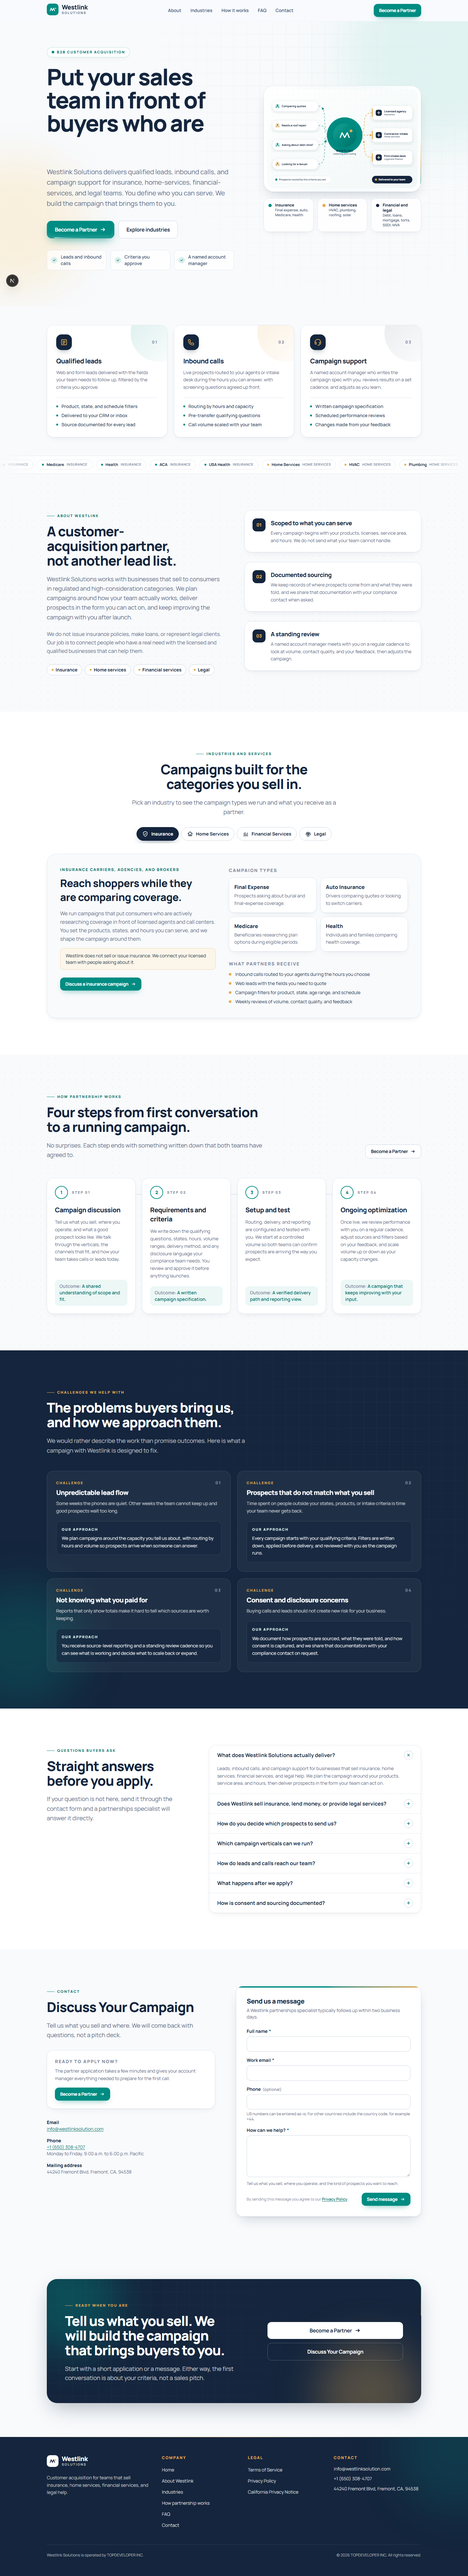
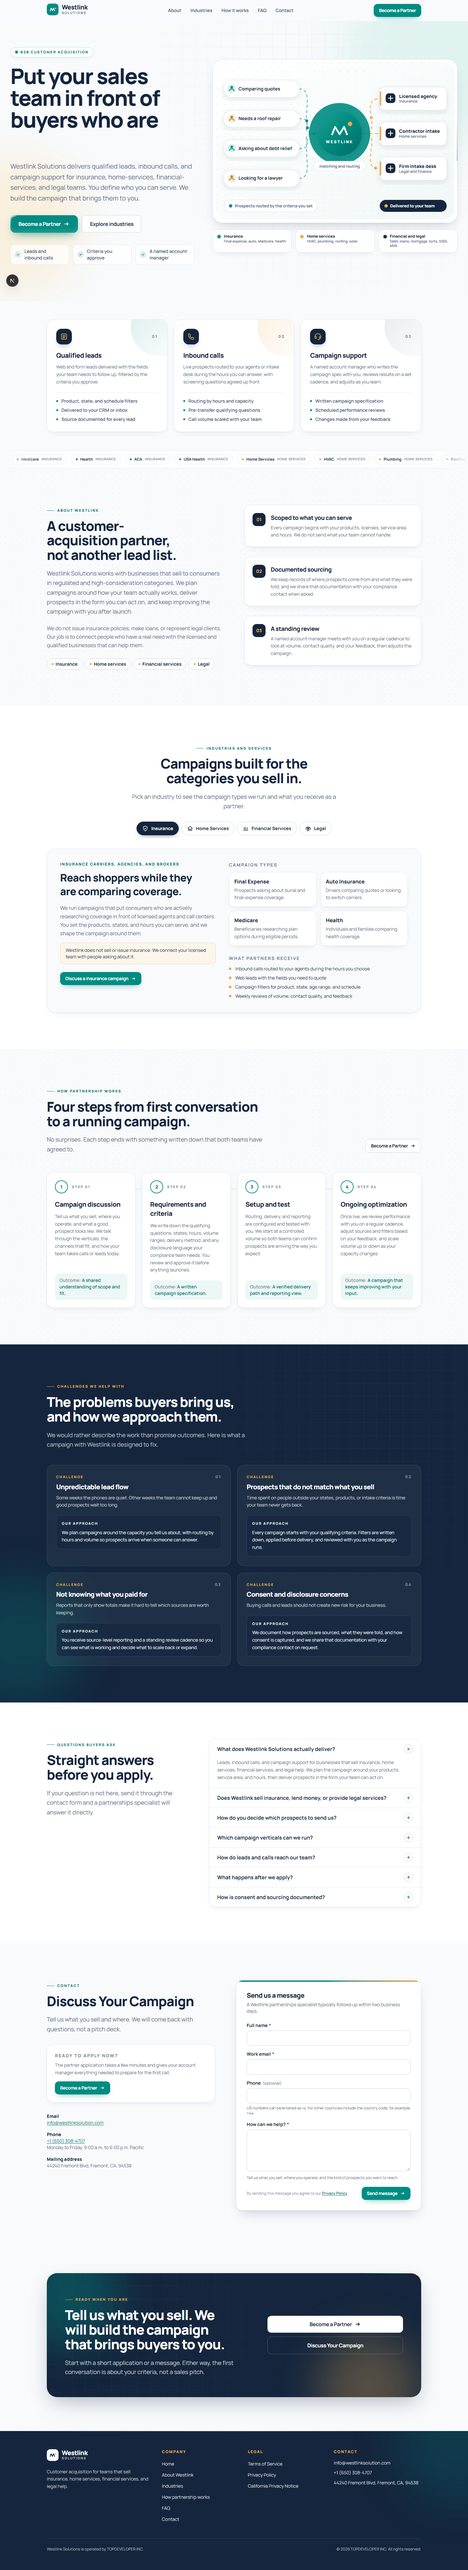
Hero: larger visual column, non-overlapping hub and connectors, wrapping headline phrase, responsiveness sweep across eight widths

diff --git a/src/components/home/HeroIllustration.tsx b/src/components/home/HeroIllustration.tsx
@@ -6,21 +6,22 @@
  * reduced motion.
  */
 const PROSPECTS = [
-  { y: 72, label: "Comparing quotes", tone: "teal" },
-  { y: 154, label: "Needs a roof repair", tone: "amber" },
-  { y: 236, label: "Asking about debt relief", tone: "teal" },
-  { y: 318, label: "Looking for a lawyer", tone: "amber" },
+  { y: 70, label: "Comparing quotes", tone: "teal" },
+  { y: 150, label: "Needs a roof repair", tone: "amber" },
+  { y: 230, label: "Asking about debt relief", tone: "teal" },
+  { y: 310, label: "Looking for a lawyer", tone: "amber" },
 ] as const;
 
 const PARTNERS = [
-  { y: 100, label: "Licensed agency", sub: "Insurance" },
-  { y: 195, label: "Contractor intake", sub: "Home services" },
-  { y: 290, label: "Firm intake desk", sub: "Legal and finance" },
+  { y: 96, label: "Licensed agency", sub: "Insurance" },
+  { y: 190, label: "Contractor intake", sub: "Home services" },
+  { y: 284, label: "Firm intake desk", sub: "Legal and finance" },
 ] as const;
 
-const HUB = { x: 330, y: 195 };
-const PILL = { x: 22, w: 196, h: 44 };
-const CARD = { x: 446, w: 172, h: 60 };
+const HUB = { x: 332, y: 190 };
+const HUB_R = 60;
+const PILL = { x: 20, w: 204, h: 46 };
+const CARD = { x: 440, w: 180, h: 62 };
 const FONT = "Manrope, ui-sans-serif, system-ui, -apple-system, 'Segoe UI', sans-serif";
 
 export function HeroIllustration({ animated = false }: { animated?: boolean }) {
@@ -56,7 +57,7 @@ export function HeroIllustration({ animated = false }: { animated?: boolean }) {
         {PROSPECTS.map((p) => (
           <path
             key={p.label}
-            d={`M${PILL.x + PILL.w} ${p.y} C ${PILL.x + PILL.w + 50} ${p.y}, ${HUB.x - 110} ${HUB.y}, ${HUB.x - 52} ${HUB.y}`}
+            d={`M${PILL.x + PILL.w} ${p.y} C ${PILL.x + PILL.w + 50} ${p.y}, ${HUB.x - 120} ${HUB.y}, ${HUB.x - HUB_R - 4} ${HUB.y}`}
             stroke="#008c82"
             strokeOpacity="0.55"
             className="link-flow"
@@ -65,7 +66,7 @@ export function HeroIllustration({ animated = false }: { animated?: boolean }) {
         {PARTNERS.map((p) => (
           <path
             key={p.label}
-            d={`M${HUB.x + 52} ${HUB.y} C ${HUB.x + 110} ${HUB.y}, ${CARD.x - 60} ${p.y}, ${CARD.x} ${p.y}`}
+            d={`M${HUB.x + HUB_R + 4} ${HUB.y} C ${HUB.x + 120} ${HUB.y}, ${CARD.x - 60} ${p.y}, ${CARD.x} ${p.y}`}
             stroke="#e7ad52"
             strokeOpacity="0.9"
             className="link-flow"
@@ -82,7 +83,7 @@ export function HeroIllustration({ animated = false }: { animated?: boolean }) {
                 dur="3.6s"
                 begin={`${i * 0.9}s`}
                 repeatCount="indefinite"
-                path={`M${PILL.x + PILL.w} ${p.y} C ${PILL.x + PILL.w + 50} ${p.y}, ${HUB.x - 110} ${HUB.y}, ${HUB.x - 52} ${HUB.y}`}
+                path={`M${PILL.x + PILL.w} ${p.y} C ${PILL.x + PILL.w + 50} ${p.y}, ${HUB.x - 120} ${HUB.y}, ${HUB.x - HUB_R - 4} ${HUB.y}`}
                 calcMode="spline"
                 keySplines="0.4 0 0.2 1"
                 keyTimes="0;1"
@@ -96,7 +97,7 @@ export function HeroIllustration({ animated = false }: { animated?: boolean }) {
                 dur="3.2s"
                 begin={`${1.2 + i * 1.1}s`}
                 repeatCount="indefinite"
-                path={`M${HUB.x + 52} ${HUB.y} C ${HUB.x + 110} ${HUB.y}, ${CARD.x - 60} ${p.y}, ${CARD.x} ${p.y}`}
+                path={`M${HUB.x + HUB_R + 4} ${HUB.y} C ${HUB.x + 120} ${HUB.y}, ${CARD.x - 60} ${p.y}, ${CARD.x} ${p.y}`}
                 calcMode="spline"
                 keySplines="0.4 0 0.2 1"
                 keyTimes="0;1"
@@ -126,7 +127,7 @@ export function HeroIllustration({ animated = false }: { animated?: boolean }) {
                   display: "flex",
                   alignItems: "center",
                   fontFamily: FONT,
-                  fontSize: 11.5,
+                  fontSize: 12.5,
                   fontWeight: 700,
                   lineHeight: 1.1,
                   color: "#14253d",
@@ -142,20 +143,20 @@ export function HeroIllustration({ animated = false }: { animated?: boolean }) {
 
       {/* Hub */}
       <g transform={`translate(${HUB.x} ${HUB.y})`}>
-        <circle r="70" fill="#008c82" opacity="0.07" className="node-pulse" />
-        <circle r="50" fill="url(#hub-grad)" filter="url(#soft)" />
-        <path d="M-19 10 -11 -10 0 10 11 -10 19 10" stroke="#ffffff" strokeWidth="4.5" strokeLinecap="round" strokeLinejoin="round" fill="none" />
-        <circle cx="27" cy="-18" r="6" fill="#e7ad52" />
-        <foreignObject x="-70" y="60" width="140" height="40">
-          <div
-            // @ts-expect-error xmlns is required for HTML inside SVG
-            xmlns="http://www.w3.org/1999/xhtml"
-            style={{ textAlign: "center", fontFamily: FONT, color: "#14253d", lineHeight: 1.25 }}
-          >
-            <div style={{ fontSize: 11.5, fontWeight: 800, letterSpacing: 2 }}>WESTLINK</div>
-            <div style={{ fontSize: 9.5, fontWeight: 600, color: "#52637a" }}>matching and routing</div>
-          </div>
-        </foreignObject>
+        <circle r={HUB_R + 22} fill="#008c82" opacity="0.07" className="node-pulse" />
+        <circle r={HUB_R} fill="url(#hub-grad)" filter="url(#soft)" />
+        <path d="M-20 2 -12 -18 0 2 12 -18 20 2" stroke="#ffffff" strokeWidth="4.5" strokeLinecap="round" strokeLinejoin="round" fill="none" />
+        <circle cx="28" cy="-26" r="6" fill="#e7ad52" />
+        <text y="26" textAnchor="middle" fontSize="10.5" fontWeight="800" fill="#ffffff" letterSpacing="2.5" fontFamily={FONT}>
+          WESTLINK
+        </text>
+        {/* Opaque chip so the subtitle never collides with connector lines */}
+        <g transform={`translate(0 ${HUB_R + 14})`}>
+          <rect x="-70" y="0" width="140" height="26" rx="13" fill="#ffffff" stroke="#e2e8f0" />
+          <text y="17" textAnchor="middle" fontSize="10.5" fontWeight="700" fill="#52637a" fontFamily={FONT}>
+            matching and routing
+          </text>
+        </g>
       </g>
 
       {/* Partner cards */}
@@ -180,8 +181,8 @@ export function HeroIllustration({ animated = false }: { animated?: boolean }) {
                 overflow: "hidden",
               }}
             >
-              <div style={{ fontSize: 11.5, fontWeight: 800 }}>{p.label}</div>
-              <div style={{ fontSize: 9.5, fontWeight: 600, color: "#52637a" }}>{p.sub}</div>
+              <div style={{ fontSize: 12.5, fontWeight: 800 }}>{p.label}</div>
+              <div style={{ fontSize: 10.5, fontWeight: 600, color: "#52637a" }}>{p.sub}</div>
             </div>
           </foreignObject>
         </g>
@@ -195,20 +196,20 @@ export function HeroIllustration({ animated = false }: { animated?: boolean }) {
           <div
             // @ts-expect-error xmlns is required for HTML inside SVG
             xmlns="http://www.w3.org/1999/xhtml"
-            style={{ height: "100%", display: "flex", alignItems: "center", fontFamily: FONT, fontSize: 10.5, fontWeight: 700, color: "#52637a", overflow: "hidden" }}
+            style={{ height: "100%", display: "flex", alignItems: "center", fontFamily: FONT, fontSize: 11, fontWeight: 700, color: "#52637a", overflow: "hidden" }}
           >
             Prospects routed by the criteria you set
           </div>
         </foreignObject>
       </g>
-      <g transform="translate(446 368)">
-        <rect width="172" height="32" rx="16" fill="#14253d" />
+      <g transform="translate(440 368)">
+        <rect width="180" height="32" rx="16" fill="#14253d" />
         <circle cx="17" cy="16" r="4.5" fill="#e7ad52" />
-        <foreignObject x="28" y="0" width="138" height="32">
+        <foreignObject x="28" y="0" width="146" height="32">
           <div
             // @ts-expect-error xmlns is required for HTML inside SVG
             xmlns="http://www.w3.org/1999/xhtml"
-            style={{ height: "100%", display: "flex", alignItems: "center", fontFamily: FONT, fontSize: 10.5, fontWeight: 700, color: "#ffffff", overflow: "hidden" }}
+            style={{ height: "100%", display: "flex", alignItems: "center", fontFamily: FONT, fontSize: 11, fontWeight: 700, color: "#ffffff", overflow: "hidden" }}
           >
             Delivered to your team
           </div>

diff --git a/docs/responsive.playwright.js b/docs/responsive.playwright.js
@@ -1,0 +1,46 @@
+/* Responsiveness sweep: at several widths, verify no horizontal overflow, no
+   element (outside scroll containers) past the viewport, the hero headline
+   stays inside its column, and the hero visual uses its column. Saves a
+   screenshot per width. */
+const { chromium } = require("playwright");
+const path = require("node:path");
+const fs = require("node:fs");
+const B = process.env.BASE || "http://localhost:3100";
+const OUT = path.join(__dirname, "out", "responsive");
+fs.mkdirSync(OUT, { recursive: true });
+const widths = [320, 375, 414, 768, 1024, 1280, 1440, 1920];
+let failed = 0;
+(async () => {
+  const b = await chromium.launch();
+  for (const w of widths) {
+    const ctx = await b.newContext({ viewport: { width: w, height: Math.round(Math.max(700, w * 0.6)) }, reducedMotion: "reduce" });
+    const p = await ctx.newPage();
+    const errs = [];
+    p.on("pageerror", (e) => errs.push(String(e)));
+    p.on("console", (m) => m.type() === "error" && errs.push(m.text().slice(0, 160)));
+    await p.goto(B + "/", { waitUntil: "networkidle" });
+    await p.locator(".reveal.is-visible").first().waitFor({ timeout: 15000 }); // hydration marker
+    await p.evaluate(() => document.querySelectorAll(".reveal").forEach((el) => el.classList.add("is-visible")));
+    await p.waitForTimeout(2600);
+    const r = await p.evaluate(() => {
+      const vw = document.documentElement.clientWidth;
+      const overflow = document.documentElement.scrollWidth - vw;
+      const inScroller = (el) => { for (let n = el.parentElement; n; n = n.parentElement) { const o = getComputedStyle(n).overflowX; if (o === "auto" || o === "scroll") return true; } return false; };
+      const past = [...document.querySelectorAll("h1, h2, h3, p, button, a, li, svg")].filter((el) => { const rc = el.getBoundingClientRect(); return rc.width > 0 && rc.right > vw + 1 && !inScroller(el); }).map((el) => el.tagName + ":" + (el.textContent || "").trim().slice(0, 24));
+      const h1 = document.querySelector("h1").getBoundingClientRect();
+      const col = document.querySelector("h1").parentElement.getBoundingClientRect();
+      const phrase = document.querySelector("h1 .gradient-text")?.getBoundingClientRect();
+      const visual = document.querySelector("svg[role=img]")?.getBoundingClientRect();
+      const visualCol = document.querySelector("svg[role=img]")?.closest(".min-w-0")?.getBoundingClientRect();
+      return { overflow, past: past.slice(0, 5), h1Right: Math.round(h1.right), colRight: Math.round(col.right), phraseRight: phrase ? Math.round(phrase.right) : null, visualW: visual ? Math.round(visual.width) : null, visualColW: visualCol ? Math.round(visualCol.width) : null };
+    });
+    const ok = r.overflow <= 0 && r.past.length === 0 && r.h1Right <= r.colRight + 1 && (r.phraseRight === null || r.phraseRight <= r.colRight + 1) && errs.length === 0;
+    if (!ok) failed++;
+    console.log(`${ok ? "PASS" : "FAIL"} ${w}px overflow=${r.overflow} past=[${r.past.join(", ")}] h1Right=${r.h1Right}/${r.colRight} phraseRight=${r.phraseRight} visual=${r.visualW}/${r.visualColW} errors=${errs.length} ${errs[0] || ""}`);
+    await p.screenshot({ path: path.join(OUT, `w${w}.png`) });
+    await ctx.close();
+  }
+  await b.close();
+  console.log(`${widths.length - failed}/${widths.length} widths pass`);
+  process.exit(failed ? 1 : 0);
+})();

diff --git a/src/components/home/RotatingPhrase.tsx b/src/components/home/RotatingPhrase.tsx
@@ -12,8 +12,9 @@ interface RotatingPhraseProps {
 
 /**
  * Cycles through short phrases with a vertical slide (AnimatePresence
- * mode="wait"). Decorative: the parent exposes the full static sentence to
- * assistive technology. Static under reduced motion.
+ * mode="wait"). It sits on its own line, so the box sizes to the current
+ * phrase and wraps on narrow screens. Decorative: the parent exposes the full
+ * static sentence to assistive technology. Static under reduced motion.
  */
 export function RotatingPhrase({ phrases, interval = 2600, className }: RotatingPhraseProps) {
   const reduce = useReducedMotionSafe();
@@ -28,17 +29,11 @@ export function RotatingPhrase({ phrases, interval = 2600, className }: Rotating
   const current = reduce ? phrases[0] : phrases[index];
 
   return (
-    <span className={`relative inline-grid max-w-full overflow-hidden align-bottom ${className ?? ""}`} aria-hidden="true">
-      {/* Reserve the widest phrase so the line never jumps. */}
-      {phrases.map((p) => (
-        <span key={p} className="invisible col-start-1 row-start-1 whitespace-nowrap">
-          {p}
-        </span>
-      ))}
+    <span className={`relative inline-grid max-w-full overflow-hidden align-bottom ${className ?? ""}`} aria-hidden="true" style={{ overflowWrap: "anywhere" }}>
       <AnimatePresence mode="wait" initial={false}>
         <motion.span
           key={current}
-          className="col-start-1 row-start-1 whitespace-nowrap gradient-text"
+          className="col-start-1 row-start-1 gradient-text"
           initial={reduce ? false : { y: "100%", opacity: 0, filter: "blur(6px)" }}
           animate={{ y: 0, opacity: 1, filter: "blur(0px)" }}
           exit={reduce ? undefined : { y: "-100%", opacity: 0, filter: "blur(6px)" }}

diff --git a/src/components/home/Hero.tsx b/src/components/home/Hero.tsx
@@ -29,7 +29,7 @@ export function Hero() {
     <section className="relative overflow-hidden pb-20 pt-14 sm:pb-28 sm:pt-20" aria-labelledby="hero-title">
       <HeroBackdrop />
 
-      <div className="container-x relative grid items-center gap-14 lg:grid-cols-[1.02fr_1fr] lg:gap-12">
+      <div className="container-x relative grid items-center gap-14 lg:grid-cols-[minmax(0,0.9fr)_minmax(0,1.2fr)] lg:gap-10 xl:max-w-[90rem] xl:gap-14 2xl:max-w-[96rem]">
         <motion.div variants={column} initial={reduce ? false : "hidden"} animate="visible">
           <Reveal>
             <motion.p
@@ -44,7 +44,7 @@ export function Hero() {
             </motion.p>
           </Reveal>
 
-          <h1 id="hero-title" className="mt-6 max-w-[14ch] break-words text-[clamp(2.1rem,9.4vw,2.9rem)] font-extrabold leading-[1.02] tracking-[-0.035em] text-navy sm:text-6xl lg:text-[4.35rem]">
+          <h1 id="hero-title" className="mt-6 max-w-[15ch] break-words text-[clamp(2.1rem,9.4vw,2.9rem)] font-extrabold leading-[1.02] tracking-[-0.035em] text-navy sm:text-6xl lg:text-[3.6rem] xl:text-[4.1rem] 2xl:text-[4.4rem]">
             <span className="sr-only">
               {HEADLINE_LEAD} {PHRASES[0]}
             </span>
@@ -79,7 +79,7 @@ export function Hero() {
           </motion.ul>
         </motion.div>
 
-        <div className="relative lg:pl-4">
+        <div className="relative min-w-0">
           <HeroVisual />
         </div>
       </div>

diff --git a/VERIFICATION.md b/VERIFICATION.md
@@ -83,6 +83,12 @@ Implemented with the `animated-component-libraries` skill pattern: Magic UI / Re
 - Before/after screenshots: `docs/screenshots/before/` and `docs/screenshots/after/` (desktop 1440, mobile 375, menu, legal pages).
 - Hero second pass with the `motion-framer` skill patterns: staggered variant choreography for the copy column (spring transitions), a rotating headline phrase using `AnimatePresence mode="wait"` with the full sentence kept static for assistive tech, pointer-driven 3D tilt on the illustration card via `useMotionValue` + `useSpring` + `useTransform` (disabled for touch and reduced motion), live routing dots travelling along the illustration links (SMIL `animateMotion`, omitted under reduced motion), scroll-linked parallax orbs via `useScroll`, hover/tap spring gestures on the CTAs, and a non-overlapping industry signal strip under the visual.
 
+## Update: hero layout and responsiveness (2026-10-12, later)
+- Hero row widened at xl/2xl (90rem/96rem container) with the visual taking the larger share; illustration labels enlarged; hub rebuilt with the wordmark inside and an opaque "matching and routing" chip so no connector crosses text; connectors start at the hub edge.
+- Rotating headline phrase no longer reserves the widest phrase (no wrapped-reserve gap) and wraps on narrow screens; headline scales with the viewport on phones.
+- New responsiveness sweep (`docs/responsive.playwright.js`): 320, 375, 414, 768, 1024, 1280, 1440, 1920 px. Checks no horizontal overflow, no element past the viewport outside scroll containers, headline and phrase inside their column, and no console errors. 8 / 8 pass; captures in `docs/screenshots/responsive/`.
+- Browser suite 55 / 55, toast suite 14 / 14, production build pass.
+
 ## Known limitations
 - Rate limiting is in-memory per server instance. Multi-instance or serverless deployments need a shared store.
 - SQLite is for local use; production should use PostgreSQL (`DATABASE_URL=postgres://…`), which is implemented but untested here.
